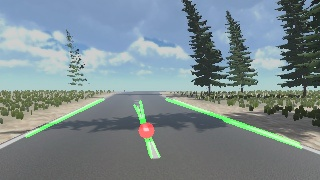
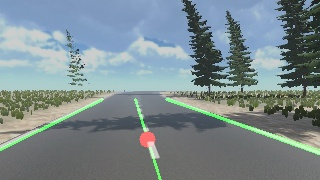
Tuned to reduce excessive lines

diff --git a/main.py b/main.py
@@ -15,6 +15,8 @@ HOUGH_THRESHOLD = 22
 HOUGH_MIN_LINE_LENGTH = 21
 HOUGH_MAX_LINE_GAP = 30
 
+MERGE_X_TOLERANCE = 28 # Max x-distance between segment midpoints to merge into one line
+
 # =============================
 # HELPER FUNCTIONS
 # =============================
@@ -53,17 +55,59 @@ def filter_lines(lines):
 
 
 
+def cluster_and_fit(segments, image_height, x_tolerance):
+    """Cluster a list of same-slope segments by x-midpoint and fit one line per cluster."""
+    if not segments:
+        return []
+    segments = sorted(segments, key=lambda s: (s[0] + s[2]) // 2)
+    clusters = []
+    current = [segments[0]]
+    for seg in segments[1:]:
+        cx = (seg[0] + seg[2]) // 2
+        cluster_cx = sum((s[0] + s[2]) // 2 for s in current) // len(current)
+        if abs(cx - cluster_cx) <= x_tolerance:
+            current.append(seg)
+        else:
+            clusters.append(current)
+            current = [seg]
+    clusters.append(current)
+
+    y_min = int(image_height * 0.55)
+    y_max = image_height
+    merged = []
+    for cluster in clusters:
+        pts = [(x, y) for (x1, y1, x2, y2) in cluster for x, y in [(x1, y1), (x2, y2)]]
+        ys = [p[1] for p in pts]
+        xs = [p[0] for p in pts]
+        fit = np.polyfit(ys, xs, 1)
+        x_bot = int(np.polyval(fit, y_max))
+        x_top = int(np.polyval(fit, y_min))
+        merged.append((x_bot, y_max, x_top, y_min))
+    return merged
+
+
+def merge_segments(segments, image_height, x_tolerance=40):
+    """Split by slope sign, cluster each group independently, then combine."""
+    neg = [(x1,y1,x2,y2) for (x1,y1,x2,y2) in segments if x1 != x2 and (y2-y1)/(x2-x1) < 0]
+    pos = [(x1,y1,x2,y2) for (x1,y1,x2,y2) in segments if x1 != x2 and (y2-y1)/(x2-x1) > 0]
+    return cluster_and_fit(neg, image_height, x_tolerance) + \
+           cluster_and_fit(pos, image_height, x_tolerance)
+
+
 def draw_lane_lines(image, segments):
     line_image = np.zeros_like(image)
     width = image.shape[1]
+    height = image.shape[0]
 
-    for (x1, y1, x2, y2) in segments:
+    merged = merge_segments(segments, height, x_tolerance=MERGE_X_TOLERANCE)
+
+    for (x1, y1, x2, y2) in merged:
         cv2.line(line_image, (x1, y1), (x2, y2), (0, 255, 0), 2)
 
-    # Find the segment whose midpoint is closest to the horizontal center of the image
-    center_segment = min(segments, key=lambda s: abs((s[0] + s[2]) // 2 - width // 2))
-    cx = (center_segment[0] + center_segment[2]) // 2
-    cy = (center_segment[1] + center_segment[3]) // 2
+    # Find the merged line whose x-center is closest to the image center
+    center_seg = min(merged, key=lambda s: abs((s[0] + s[2]) // 2 - width // 2))
+    cx = (center_seg[0] + center_seg[2]) // 2
+    cy = (center_seg[1] + center_seg[3]) // 2
     cv2.circle(line_image, (cx, cy), 8, (0, 0, 255), -1)
 
     combined = cv2.addWeighted(image, 0.8, line_image, 1, 1)
